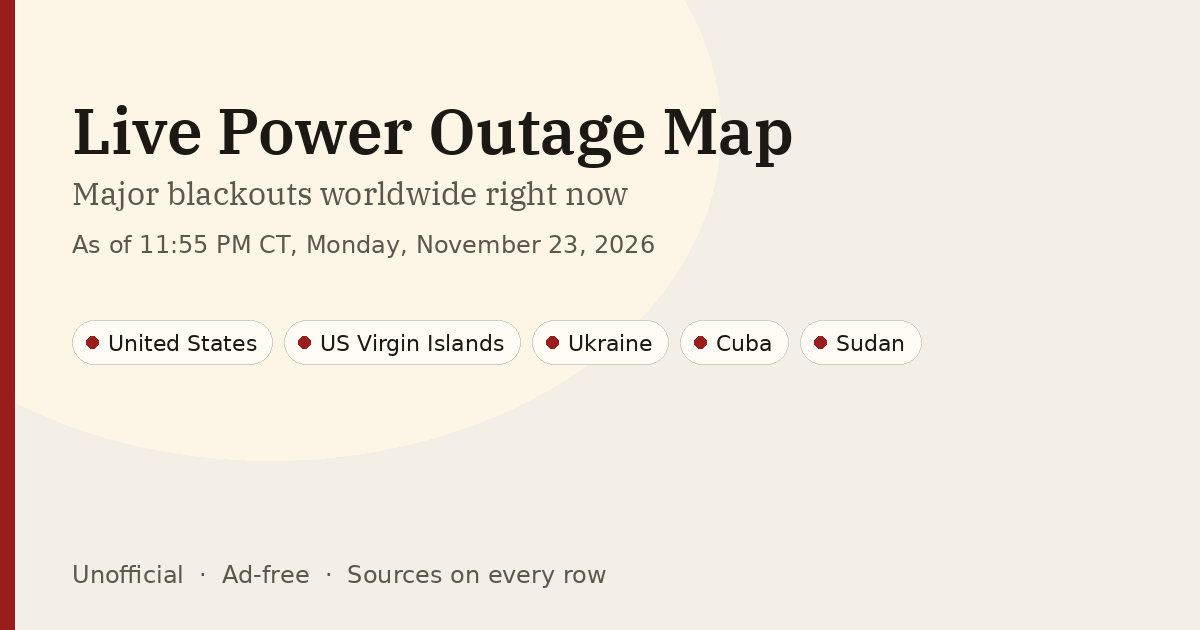
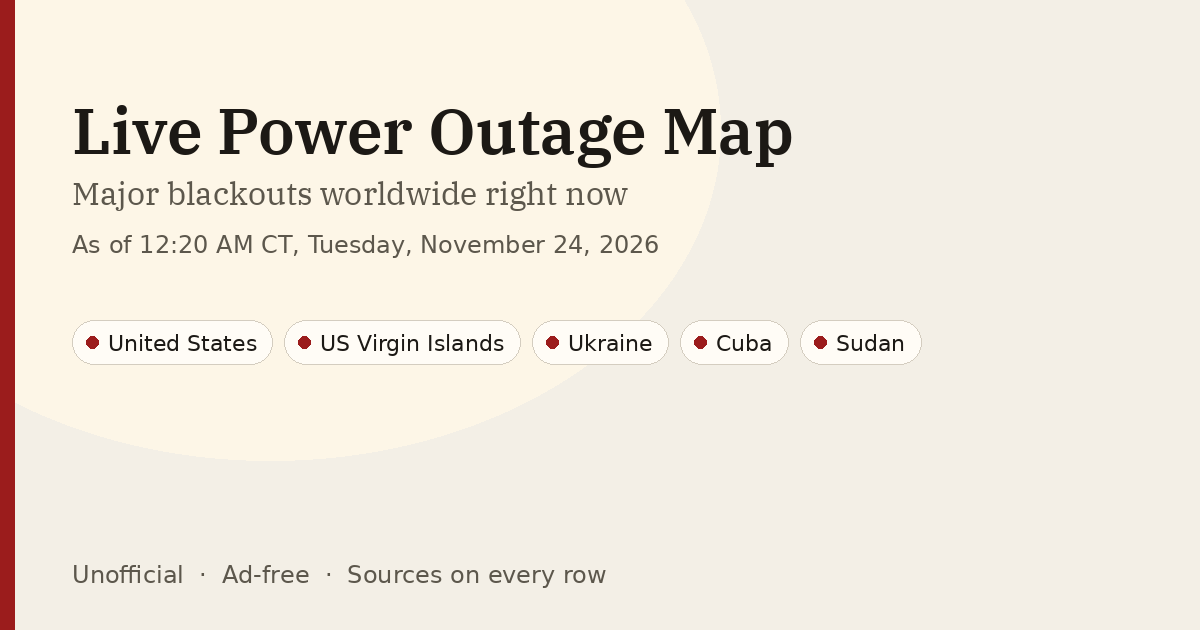
Update US outage data (12:27 AM CT)

Changed region(s): [[0.1233, 0.3619, 0.555, 0.4222]]

diff --git a/index.html b/index.html
@@ -62,7 +62,7 @@
       "about": {
         "@id": "https://blackoutsmap.com/#dataset"
       },
-      "dateModified": "2026-11-23T23:55:00-06:00",
+      "dateModified": "2026-11-24T00:20:00-06:00",
       "primaryImageOfPage": "https://blackoutsmap.com/og-image.png",
       "inLanguage": "en"
     },
@@ -73,8 +73,8 @@
       "description": "A frequently updated list of significant power outages and electricity shortfalls worldwide. Each record gives the place, country or region, cause, customers affected or MW shortfall, start time, estimated restoration time when published, the source URL, and when it was last checked. US figures come from MassOutage (CC BY 4.0), with some state and territory counts from PowerOutage.us; other rows come from utility, grid operator, and news reports linked on each row. US data refreshes about hourly; the worldwide list updates a few times a day.",
       "url": "https://blackoutsmap.com/",
       "isAccessibleForFree": true,
-      "dateModified": "2026-11-23T23:55:00-06:00",
-      "temporalCoverage": "2026-11-23T23:55:00-06:00",
+      "dateModified": "2026-11-24T00:20:00-06:00",
+      "temporalCoverage": "2026-11-24T00:20:00-06:00",
       "spatialCoverage": {
         "@type": "Place",
         "name": "Worldwide"
@@ -197,7 +197,7 @@
     <main>
     <header class="top">
       <h1>Live Power Outage Map</h1>
-      <p class="dateline">As of <strong id="as-of">11:55 PM CT, Monday, November 23, 2026</strong><br>Times in Central Time (CT)</p>
+      <p class="dateline">As of <strong id="as-of">12:20 AM CT, Tuesday, November 24, 2026</strong><br>Times in Central Time (CT)</p>
     </header>
 
     <p class="intro">This free, ad-free map tracks significant power outages and blackouts around the world right now. Each outage shows where it is, how many customers are affected, the cause, and the estimated restoration time when one is published, with a link to the source. It is unofficial: for your own address, check your electric utility's outage map. <a href="#faq">How this map works</a></p>
@@ -208,7 +208,7 @@
 
 
     <div class="metrics" id="metrics">
-      <article class="metric" id="metric-us"><!-- build:metric-us --><div class="label">United States</div><div class="value">52,873</div><div class="detail">52,873 customers out</div><!-- /build:metric-us --></article>
+      <article class="metric" id="metric-us"><!-- build:metric-us --><div class="label">United States</div><div class="value">59,589</div><div class="detail">59,589 customers out</div><!-- /build:metric-us --></article>
     </div>
 
     <nav class="region-nav" id="region-nav" aria-label="Outages by country">
@@ -251,12 +251,12 @@
             </tr>
           </thead>
           <tbody id="outage-body"><!-- build:table -->
-<tr><td class="place-cell"><a class="place-link" href="us/">United States</a></td><td>Nationwide</td><td class="empty">—</td><td>52,873 customers out</td><td class="empty">—</td><td class="empty">—</td><td><a href="https://massoutage.com/" target="_blank" rel="noopener noreferrer">MassOutage + PowerOutage.us</a></td><td>11:00 PM CT</td></tr>
+<tr><td class="place-cell"><a class="place-link" href="us/">United States</a></td><td>Nationwide</td><td class="empty">—</td><td>59,589 customers out</td><td class="empty">—</td><td class="empty">—</td><td><a href="https://massoutage.com/" target="_blank" rel="noopener noreferrer">MassOutage + PowerOutage.us</a></td><td>12:20 AM CT</td></tr>
+<tr><td class="place-cell"><a class="place-link" href="us/">California</a></td><td>United States</td><td class="empty">—</td><td>7,354 customers out</td><td class="empty">—</td><td class="empty">—</td><td><a href="https://massoutage.com/california" target="_blank" rel="noopener noreferrer">MassOutage</a></td><td>12:20 AM CT</td></tr>
 <tr><td class="place-cell"><a class="place-link" href="us-virgin-islands/">U.S. Virgin Islands</a></td><td>United States</td><td class="empty">—</td><td>6,636 customers out</td><td class="empty">—</td><td class="empty">—</td><td><a href="https://poweroutage.us/area/state/virgin%20islands" target="_blank" rel="noopener noreferrer">PowerOutage.us</a></td><td>2:13 PM CT</td></tr>
 <tr><td class="place-cell"><a class="place-link" href="us/">Texas</a></td><td>United States</td><td class="empty">—</td><td>5,927 customers out</td><td class="empty">—</td><td class="empty">—</td><td><a href="https://poweroutage.us/area/state/texas" target="_blank" rel="noopener noreferrer">PowerOutage.us</a></td><td>2:13 PM CT</td></tr>
-<tr><td class="place-cell"><a class="place-link" href="us/">California</a></td><td>United States</td><td class="empty">—</td><td>5,564 customers out</td><td class="empty">—</td><td class="empty">—</td><td><a href="https://poweroutage.us/area/state/california" target="_blank" rel="noopener noreferrer">PowerOutage.us</a></td><td>2:13 PM CT</td></tr>
 <tr><td class="place-cell"><a class="place-link" href="us/">Oregon</a></td><td>United States</td><td class="empty">—</td><td>4,441 customers out</td><td class="empty">—</td><td class="empty">—</td><td><a href="https://poweroutage.us/area/state/oregon" target="_blank" rel="noopener noreferrer">PowerOutage.us</a></td><td>2:13 PM CT</td></tr>
-<tr><td class="place-cell"><a class="place-link" href="us/">Georgia</a></td><td>United States</td><td class="empty">—</td><td>3,326 customers out</td><td class="empty">—</td><td class="empty">—</td><td><a href="https://poweroutage.us/area/state/georgia" target="_blank" rel="noopener noreferrer">PowerOutage.us</a></td><td>2:13 PM CT</td></tr>
+<tr><td class="place-cell"><a class="place-link" href="us/">Pennsylvania</a></td><td>United States</td><td class="empty">—</td><td>4,195 customers out</td><td class="empty">—</td><td class="empty">—</td><td><a href="https://massoutage.com/pennsylvania" target="_blank" rel="noopener noreferrer">MassOutage</a></td><td>12:20 AM CT</td></tr>
 <tr><td class="place-cell"><a class="place-link" href="ukraine/">Kyiv and nationwide</a></td><td>Ukraine</td><td class="clamp-cell"><span class="clamp-preview">Rolling and emergency blackouts after Russian attacks on energy</span><span class="clamp-full" id="clamp-full-1">Rolling and emergency blackouts after Russian attacks on energy infrastructure, including a large-scale attack on Nov 20 and further strikes reported on Nov 21 and into Nov 22 and Nov 23. Ukrenergo said planned outage schedules would be in effect around the clock on Monday, Nov 23, and again on Tuesday, Nov 24, in parts of the country because of those attacks</span><button type="button" class="clamp-toggle" aria-expanded="false" aria-label="Show full text" aria-controls="clamp-full-1">…</button></td><td class="clamp-cell"><span class="clamp-preview">Ukrenergo, as reported by LB.ua at 7:20 p.m. Monday, Nov 23 (11:20 a.m.</span><span class="clamp-full" id="clamp-full-2">Ukrenergo, as reported by LB.ua at 7:20 p.m. Monday, Nov 23 (11:20 a.m. CT if Kyiv time / EET), by UNIAN at 8:59 p.m. Monday, Nov 23 (12:59 p.m. CT if Kyiv time / EET), and by UNN at 5:13 p.m. Monday, Nov 23 (9:13 a.m. CT if Kyiv time / EET), said that on Tuesday, Nov 24, scheduled power-supply restrictions would be in effect around the clock in parts of Ukraine because of the aftermath of Russian attacks on the energy system: hourly outage schedules of 0.5 to 3.5 groups, or queues, for all categories of consumers, and capacity-limitation schedules for industrial consumers. UNIAN, citing Ukrenergo, said those 0.5 to 3.5 queues amounted to about 2 to 14 hours without power, and UNN likewise said one group means four hours without electricity, so Tuesday outages may last from 2 to 14 hours. UNIAN also summarized Tuesday regional schedules, saying that in Sumy and the Sumy region the total duration without power would be from six to 14 hours; that in Lviv and the Lviv region some queues had no outages scheduled and the rest would be switched off once for two to four and a half hours; that in Poltava and the Poltava region customers would be switched off four times a day, except for two half-queues with three and five periods, with each outage lasting from half an hour to three and a half hours; and that Kyiv schedules would be applied individually and should be checked through local operators. LB.ua, in the same Nov 23 report, said that at present the most difficult situation with electricity supply remained in Dnipropetrovsk and Odesa regions. Kyiv Independent, in an article dated 9:19 p.m. Monday, Nov 23 (1:19 p.m. CT if Kyiv time / EET), citing the private energy company DTEK, said Russian attacks on four DTEK energy facilities in Dnipropetrovsk Oblast over Nov 21 and Nov 22 had left about 353,000 households without electricity, that emergency power cuts were in effect in Dnipro and the Dniprovskyi, Samarivskyi, Kamianskyi, and Pavlohradskyi districts, with regular outage schedules suspended there, and that other parts of the region were subject to scheduled cuts ordered by Ukrenergo; DTEK, as quoted in that report, said emergency repair crews had worked through the night and were continuing restoration, prioritizing critical infrastructure, but that damage to main transmission networks meant technicians could not yet reconnect all consumers, and it did not give a timeline for restoring power to all affected households. NV, in an article dated 3:46 p.m. Monday, Nov 23 (7:46 a.m. CT if Kyiv time / EET), and Delo.ua, also citing DTEK, gave the same figure of about 353,000 households and said a significant part of Dnipro, the city of Samar, and adjacent districts had been left without power. Earlier Monday, Kyiv Post, in an article dated 2:18 p.m. Monday, Nov 23 (7:18 a.m. CT if Kyiv time / EET), citing Ukraine&#x27;s Energy Ministry and First Deputy Energy Minister Artem Nekrasov, said Russia had carried out 100 attacks on Ukraine&#x27;s energy, oil, and gas infrastructure over the past week, contributing to 224 recorded damage incidents, and that power outages had continued to affect seven regions on Monday, Nov 23: Dnipropetrovsk, Donetsk, Zhytomyr, Sumy, Kharkiv, Odesa, and Poltava, with the situation remaining particularly difficult in Odesa and Dnipropetrovsk regions. The same Kyiv Post report, citing Nekrasov, said energy workers had restored power to critical infrastructure facilities while repairs and efforts to reconnect households and businesses continued; that grid restrictions had been introduced in Dnipropetrovsk region to prevent further outages caused by overloads; that emergency power cuts remained in place in Kharkiv region because of previous damage and reduced voltage in the high-voltage transmission network, with scheduled outages to resume once the situation stabilized; and that Russian forces had also struck a gas-infrastructure facility in Dnipropetrovsk region in the previous days, injuring three employees. Kyiv Post also said that across most of Ukraine, hourly electricity outage schedules were in place on Nov 23, while industrial consumers faced power restrictions, and, citing Ukraine&#x27;s Air Force data reported by Ukrainian media, that on the night of Nov 23 Russia launched 153 attack drones against Ukraine, including 60 jet-powered Shahed drones, alongside Gerbera drones and Parodiya decoys. An earlier Sunday night Ukrenergo statement, as reported by Censor.NET at 10:24 p.m. EET Sunday, Nov 22 (2:24 p.m. CT), by UNIAN at 11:13 p.m. EET Sunday (3:13 p.m. CT), by Focus, and by 24tv, had said that on Monday, Nov 23, planned electricity outages would be in effect around the clock in parts of the country: hourly outage schedules of 1 to 3.5 groups, or queues, for all categories of consumers, and capacity-restriction schedules for industry. UNIAN, in that Sunday night report, said those 1 to 3.5 queues amounted to approximately 4 to 16 hours a day for household consumers. No official nationwide customer count was found as of 11:55 PM CT Monday, Nov 23 (7:55 a.m. EET Tuesday, Nov 24).</span><button type="button" class="clamp-toggle" aria-expanded="false" aria-label="Show full text" aria-controls="clamp-full-2">…</button></td><td class="empty">—</td><td class="empty">—</td><td><a href="https://en.lb.ua/news/2026/11/23/51172_ukrenergo_power_outage_schedules.html" target="_blank" rel="noopener noreferrer">en.lb.ua</a></td><td class="clamp-cell"><span class="clamp-preview">Nov 23-24, 2026, Ukrenergo Tuesday, Nov 24, schedules of 0.5 to 3.5</span><span class="clamp-full" id="clamp-full-3">Nov 23-24, 2026, Ukrenergo Tuesday, Nov 24, schedules of 0.5 to 3.5 queues around the clock, and industrial capacity limits, via LB.ua 7:20 p.m. Monday, Nov 23 (= 11:20 a.m. CT if Kyiv time / EET), UNIAN 8:59 p.m. Monday (= 12:59 p.m. CT if Kyiv time / EET), and UNN 5:13 p.m. Monday (= 9:13 a.m. CT if Kyiv time / EET), with UNIAN and UNN saying those queues amounted to about 2 to 14 hours, and LB.ua saying the most difficult supply situation remained in Dnipropetrovsk and Odesa regions; earlier Kyiv Independent dated 9:19 p.m. Monday, Nov 23 (= 1:19 p.m. CT if Kyiv time / EET), citing DTEK, on about 353,000 households without power in Dnipropetrovsk Oblast after attacks on four DTEK facilities on Nov 21-22, emergency cuts in Dnipro and four districts, and scheduled cuts elsewhere in the region; NV 3:46 p.m. Monday (= 7:46 a.m. CT if Kyiv time / EET) and Delo.ua, also citing DTEK, on the same 353,000-household figure and on a significant part of Dnipro, Samar, and adjacent districts left without power; earlier Kyiv Post dated 2:18 p.m. Monday, Nov 23 (= 7:18 a.m. CT if Kyiv time / EET), citing the Energy Ministry and First Deputy Energy Minister Artem Nekrasov, on 100 attacks on energy, oil, and gas infrastructure in the past week with 224 damage incidents, outages in seven regions on Monday with Odesa and Dnipropetrovsk among the hardest hit, emergency blackouts remaining in Kharkiv, grid restrictions in Dnipropetrovsk region, and, citing Ukraine&#x27;s Air Force data reported by Ukrainian media, 153 attack drones launched on the night of Nov 23, including 60 jet-powered Shahed drones; earlier Sunday night Ukrenergo schedules of 1 to 3.5 queues via Censor.NET, UNIAN, Focus, and 24tv, with UNIAN saying those queues amounted to approximately 4 to 16 hours a day; rechecked 11:55 PM CT Monday, Nov 23 (7:55 a.m. EET Tuesday, Nov 24), no official nationwide customer count found</span><button type="button" class="clamp-toggle" aria-expanded="false" aria-label="Show full text" aria-controls="clamp-full-3">…</button></td></tr>
 <tr><td class="place-cell"><a class="place-link" href="ukraine/">Odesa and parts of Odesa district</a></td><td>Odesa, Ukraine</td><td class="clamp-cell"><span class="clamp-preview">Repeated Russian attacks on high-voltage transmission networks and</span><span class="clamp-full" id="clamp-full-4">Repeated Russian attacks on high-voltage transmission networks and other energy facilities critical to the region, including a strike on a DTEK Odeski Elektromerezhi energy facility on the morning of Nov 20. Later on Monday, Nov 23, Odesa regional governor Oleh Kiper said scheduled power-outage timetables were being reinstated in place of emergency blackouts after energy workers restored damaged infrastructure, and DTEK Odeski Elektromerezhi said repairs had made a return to stabilization schedules possible, while warning that the energy system remained vulnerable to significant loads</span><button type="button" class="clamp-toggle" aria-expanded="false" aria-label="Show full text" aria-controls="clamp-full-4">…</button></td><td class="clamp-cell"><span class="clamp-preview">Odesa regional governor Oleh Kiper, as reported by LB.ua at 8:03 p.m.</span><span class="clamp-full" id="clamp-full-5">Odesa regional governor Oleh Kiper, as reported by LB.ua at 8:03 p.m. Monday, Nov 23 (12:03 p.m. CT if Kyiv time / EET), said that in Odesa and Odesa District, scheduled power-outage timetables were being reinstated in place of emergency blackouts, that the return to planned schedules had become possible because of continuous work by energy workers restoring damaged infrastructure, and that residents were being urged to use electricity sparingly so as not to overload the power system and cause new emergency outages. DTEK Odeski Elektromerezhi, in a Nov 23 statement on its website, said that thanks to difficult repairs and the restoration of equipment, energy workers had been able to return to stabilization schedules, that the energy system remained vulnerable to significant loads, and that customers should not turn on all electrical appliances at once when power returned, in order to avoid overloading the networks and causing new accidents; the company pointed customers to its website and chatbots for the current schedules. An earlier Monday statement by Kiper, as reported by Censor.NET at 12:35 p.m. EET Monday, Nov 23 (4:35 a.m. CT), by UNN at 10:11 a.m. Kyiv time Monday (2:11 a.m. CT), and by Slovo i Dilo at 12:38 p.m. EET Monday (4:38 a.m. CT), had said the electricity-supply situation in Odesa region remained difficult but that measures were being taken to stabilize it; that emergency outages without schedules were still being applied because the damaged equipment could not yet supply all consumers at once; that all critical infrastructure and some consumers had already been energized; that water was available in all districts, with possible pumping interruptions in some apartment buildings; that 9 of 11 large boiler houses were operating, with 2 more plus the CHP being brought online; that heat had already been supplied to 186,000 subscribers; and that about 79,000 consumers remained temporarily without heating. Ukrenergo, as reported Monday morning by UNN and Slovo i Dilo, had said the situation in Odesa Oblast had been partially stabilized and that electricity supply to critical infrastructure in Odesa had been restored after overnight repair work. No official remaining-electricity-customer count after the earlier Friday DTEK figures was found as of 11:55 PM CT Monday, Nov 23 (7:55 a.m. EET Tuesday, Nov 24).</span><button type="button" class="clamp-toggle" aria-expanded="false" aria-label="Show full text" aria-controls="clamp-full-5">…</button></td><td>Morning of Nov 20, 2026 (Kyiv time)</td><td class="empty">—</td><td><a href="https://en.lb.ua/news/2026/11/23/51184_odesa_district_return_scheduled.html" target="_blank" rel="noopener noreferrer">en.lb.ua</a></td><td class="clamp-cell"><span class="clamp-preview">Nov 23, 2026, Odesa regional governor Oleh Kiper via LB.ua 8:03 p.m.</span><span class="clamp-full" id="clamp-full-6">Nov 23, 2026, Odesa regional governor Oleh Kiper via LB.ua 8:03 p.m. Monday, Nov 23 (= 12:03 p.m. CT if Kyiv time / EET), on scheduled power-outage timetables being reinstated in Odesa and Odesa District in place of emergency blackouts after restoration of damaged infrastructure, with residents urged to use electricity sparingly; DTEK Odeski Elektromerezhi Nov 23 website statement on a return to stabilization schedules, the system remaining vulnerable to significant loads, and a request not to turn on all appliances at once; earlier Monday Kiper statement via Censor.NET 12:35 p.m. EET Monday (= 4:35 a.m. CT), UNN 10:11 a.m. Kyiv time Monday (= 2:11 a.m. CT), and Slovo i Dilo 12:38 p.m. EET Monday (= 4:38 a.m. CT), on a still-difficult supply situation, emergency outages then still being applied, all critical infrastructure and some consumers already energized, water in all districts, 9 of 11 large boiler houses operating, heat already supplied to 186,000 subscribers, and about 79,000 consumers temporarily without heating; Ukrenergo Monday morning statement via UNN and Slovo i Dilo that the Odesa Oblast situation had been partially stabilized and that critical infrastructure in Odesa had been restored; rechecked 11:55 PM CT Monday, Nov 23 (7:55 a.m. EET Tuesday, Nov 24), no official remaining-electricity-customer count after the earlier Friday DTEK figures found</span><button type="button" class="clamp-toggle" aria-expanded="false" aria-label="Show full text" aria-controls="clamp-full-6">…</button></td></tr>
 <tr><td class="place-cell"><a class="place-link" href="ukraine/">Dnipro, Samar, and parts of Dnipropetrovsk region, including Dniprovskyi, Samarivskyi, Kamianske, and Pavlohrad districts</a></td><td>Dnipropetrovsk, Ukraine</td><td class="clamp-cell"><span class="clamp-preview">Russian attacks on four DTEK energy facilities in Dnipropetrovsk Oblast</span><span class="clamp-full" id="clamp-full-7">Russian attacks on four DTEK energy facilities in Dnipropetrovsk Oblast over Nov 21 and Nov 22, according to DTEK, which said most of the facilities had been struck before, that equipment was damaged and fires broke out at several sites, and that damage to main transmission networks meant not all consumers could yet be reconnected. Emergency outages were in effect in Dnipro and in the Dniprovskyi, Samarivskyi, Kamianskyi, and Pavlohradskyi districts, where regular hourly schedules were not being applied</span><button type="button" class="clamp-toggle" aria-expanded="false" aria-label="Show full text" aria-controls="clamp-full-7">…</button></td><td class="clamp-cell"><span class="clamp-preview">DTEK, as reported by Kyiv Independent in an article dated 9:19 p.m.</span><span class="clamp-full" id="clamp-full-8">DTEK, as reported by Kyiv Independent in an article dated 9:19 p.m. Monday, Nov 23 (1:19 p.m. CT if Kyiv time / EET), by NV at 3:46 p.m. Monday, Nov 23 (7:46 a.m. CT if Kyiv time / EET), and by Delo.ua, said Russian attacks on four of its energy facilities in Dnipropetrovsk Oblast over two days, Nov 21 and Nov 22, had left about 353,000 households without electricity. Those reports, citing DTEK, said a significant part of Dnipro, the city of Samar, and adjacent districts had been left without power; that the facilities were hit in Dnipro and surrounding areas, damaging equipment and causing fires at several sites; that most of the facilities had been struck before; and that no energy workers were injured in the recent attacks. DTEK said emergency repair crews had worked through the night and were continuing restoration efforts, prioritizing electricity supplies to critical infrastructure, but that damage to main transmission networks meant technicians could not yet reconnect all consumers, and it did not give a timeline for restoring power to all affected households. Emergency power cuts were in effect in Dnipro and the Dniprovskyi, Samarivskyi, Kamianskyi, and Pavlohradskyi districts, with regular outage schedules suspended there; other parts of the region were subject to scheduled cuts ordered by Ukrenergo. An earlier Monday morning account from Ukrenergo, as reported by UNN at 10:11 a.m. Kyiv time Monday, Nov 23 (2:11 a.m. CT) and by Slovo i Dilo at 12:38 p.m. EET Monday (4:38 a.m. CT), had said the Dnipropetrovsk Oblast situation remained significantly more difficult, with hourly outage schedules in effect and overnight restoration work after significant damage from Russian attacks. Dnipropetrovsk regional council head Mykola Lukashuk, via Vidomo at 10:59 a.m. Monday (2:59 a.m. CT if Kyiv time / EET), had said emergency outages remained in effect in Dnipro and in the Dniprovskyi, Samarivskyi, Kamianske, and Pavlohrad districts, where DTEK hourly schedules were not being applied, with an hourly schedule in effect for Central Energy Company (CEK) customers and a separate schedule for part of Pavlohrad. No later official remaining-customer count after the DTEK figure of about 353,000 households was found as of 11:55 PM CT Monday, Nov 23 (7:55 a.m. EET Tuesday, Nov 24).</span><button type="button" class="clamp-toggle" aria-expanded="false" aria-label="Show full text" aria-controls="clamp-full-8">…</button></td><td class="empty">—</td><td class="empty">—</td><td><a href="https://www.kyivindependent.com/over-350-000-homes-without-power-as-energy-crisis-deepens-in-dnipropetrovsk-oblast/" target="_blank" rel="noopener noreferrer">kyivindependent.com</a></td><td class="clamp-cell"><span class="clamp-preview">Nov 23, 2026, DTEK via Kyiv Independent dated 9:19 p.m. Monday, Nov 23</span><span class="clamp-full" id="clamp-full-9">Nov 23, 2026, DTEK via Kyiv Independent dated 9:19 p.m. Monday, Nov 23 (= 1:19 p.m. CT if Kyiv time / EET), NV 3:46 p.m. Monday (= 7:46 a.m. CT if Kyiv time / EET), and Delo.ua, on about 353,000 households without power after attacks on four DTEK facilities on Nov 21-22, a significant part of Dnipro, Samar, and adjacent districts left without power, emergency cuts in Dnipro and four districts, scheduled cuts elsewhere in the region, overnight repairs prioritizing critical infrastructure, and no timeline for full restoration; earlier Monday morning Ukrenergo update via UNN 10:11 a.m. Kyiv time Monday (= 2:11 a.m. CT) and Slovo i Dilo 12:38 p.m. EET Monday (= 4:38 a.m. CT), saying the Dnipropetrovsk Oblast situation remained significantly more difficult; Dnipropetrovsk regional council head Mykola Lukashuk via Vidomo 10:59 a.m. Monday (= 2:59 a.m. CT if Kyiv time / EET), on emergency outages in Dnipro and four districts; rechecked 11:55 PM CT Monday, Nov 23 (7:55 a.m. EET Tuesday, Nov 24), no later official remaining-customer count after the DTEK figure of about 353,000 households found</span><button type="button" class="clamp-toggle" aria-expanded="false" aria-label="Show full text" aria-controls="clamp-full-9">…</button></td></tr>
@@ -310,11 +310,11 @@
       <h2>Sources</h2>
       <ul id="source-list"><!-- build:sources -->
       <li><a href="https://massoutage.com/" target="_blank" rel="noopener noreferrer">MassOutage + PowerOutage.us</a></li>
+<li><a href="https://massoutage.com/california" target="_blank" rel="noopener noreferrer">MassOutage</a></li>
 <li><a href="https://poweroutage.us/area/state/virgin%20islands" target="_blank" rel="noopener noreferrer">PowerOutage.us</a></li>
 <li><a href="https://poweroutage.us/area/state/texas" target="_blank" rel="noopener noreferrer">PowerOutage.us</a></li>
-<li><a href="https://poweroutage.us/area/state/california" target="_blank" rel="noopener noreferrer">PowerOutage.us</a></li>
 <li><a href="https://poweroutage.us/area/state/oregon" target="_blank" rel="noopener noreferrer">PowerOutage.us</a></li>
-<li><a href="https://poweroutage.us/area/state/georgia" target="_blank" rel="noopener noreferrer">PowerOutage.us</a></li>
+<li><a href="https://massoutage.com/pennsylvania" target="_blank" rel="noopener noreferrer">MassOutage</a></li>
 <li><a href="https://en.lb.ua/news/2026/11/23/51172_ukrenergo_power_outage_schedules.html" target="_blank" rel="noopener noreferrer">en.lb.ua</a></li>
 <li><a href="https://en.lb.ua/news/2026/11/23/51184_odesa_district_return_scheduled.html" target="_blank" rel="noopener noreferrer">en.lb.ua</a></li>
 <li><a href="https://www.kyivindependent.com/over-350-000-homes-without-power-as-energy-crisis-deepens-in-dnipropetrovsk-oblast/" target="_blank" rel="noopener noreferrer">kyivindependent.com</a></li>
@@ -357,11 +357,11 @@
     /* build:region-hrefs */
     const REGION_HREFS = {
       "United States|Nationwide": "us/",
+      "California|United States": "us/",
       "U.S. Virgin Islands|United States": "us-virgin-islands/",
       "Texas|United States": "us/",
-      "California|United States": "us/",
       "Oregon|United States": "us/",
-      "Georgia|United States": "us/",
+      "Pennsylvania|United States": "us/",
       "Kyiv and nationwide|Ukraine": "ukraine/",
       "Odesa and parts of Odesa district|Odesa, Ukraine": "ukraine/",
       "Dnipro, Samar, and parts of Dnipropetrovsk region, including Dniprovskyi, Samarivskyi, Kamianske, and Pavlohrad districts|Dnipropetrovsk, Ukraine": "ukraine/",

diff --git a/us/index.html b/us/index.html
@@ -4,7 +4,7 @@
   <meta charset="utf-8">
   <meta name="viewport" content="width=device-width, initial-scale=1">
   <title>US Power Outage Today | Live Power Outage Map</title>
-  <meta name="description" content="Power outages in the United States right now: customers affected, causes, and restoration times, with sources. United States: 52,873 customers out U.S. Virgin Islands: 6,636 customers out">
+  <meta name="description" content="Power outages in the United States right now: customers affected, causes, and restoration times, with sources. United States: 59,589 customers out California: 7,354 customers out">
   <meta name="robots" content="index,follow,max-image-preview:large,max-snippet:-1">
   <meta name="theme-color" content="#f3efe6">
   <link rel="canonical" href="https://blackoutsmap.com/us/">
@@ -12,7 +12,7 @@
   <link rel="stylesheet" href="../site.css">
   <meta property="og:type" content="website">
   <meta property="og:title" content="US Power Outage Today | Live Power Outage Map">
-  <meta property="og:description" content="Power outages in the United States right now: customers affected, causes, and restoration times, with sources. United States: 52,873 customers out U.S. Virgin Islands: 6,636 customers out">
+  <meta property="og:description" content="Power outages in the United States right now: customers affected, causes, and restoration times, with sources. United States: 59,589 customers out California: 7,354 customers out">
   <meta property="og:url" content="https://blackoutsmap.com/us/">
   <meta property="og:site_name" content="Live Power Outage Map">
   <meta property="og:locale" content="en_US">
@@ -23,7 +23,7 @@
   <meta property="og:image:alt" content="Live Power Outage Map: major blackouts worldwide right now">
   <meta name="twitter:card" content="summary_large_image">
   <meta name="twitter:title" content="US Power Outage Today | Live Power Outage Map">
-  <meta name="twitter:description" content="Power outages in the United States right now: customers affected, causes, and restoration times, with sources. United States: 52,873 customers out U.S. Virgin Islands: 6,636 customers out">
+  <meta name="twitter:description" content="Power outages in the United States right now: customers affected, causes, and restoration times, with sources. United States: 59,589 customers out California: 7,354 customers out">
   <meta name="twitter:image" content="https://blackoutsmap.com/og-image.png">
   <meta name="twitter:image:alt" content="Live Power Outage Map: major blackouts worldwide right now">
 
@@ -36,14 +36,14 @@
       "@id": "https://blackoutsmap.com/us/#webpage",
       "name": "US Power Outage Today",
       "url": "https://blackoutsmap.com/us/",
-      "description": "Power outages in the United States right now: customers affected, causes, and restoration times, with sources. United States: 52,873 customers out U.S. Virgin Islands: 6,636 customers out",
+      "description": "Power outages in the United States right now: customers affected, causes, and restoration times, with sources. United States: 59,589 customers out California: 7,354 customers out",
       "isPartOf": {
         "@type": "WebSite",
         "@id": "https://blackoutsmap.com/#website",
         "name": "Live Power Outage Map",
         "url": "https://blackoutsmap.com/"
       },
-      "dateModified": "2026-11-23T23:55:00-06:00",
+      "dateModified": "2026-11-24T00:20:00-06:00",
       "inLanguage": "en",
       "breadcrumb": {
         "@id": "https://blackoutsmap.com/us/#breadcrumb"
@@ -86,7 +86,7 @@
     <nav class="breadcrumb back-link" aria-label="Breadcrumb"><a href="../">← Live worldwide power outage map</a> <span aria-hidden="true">/</span> <span aria-current="page">US Power Outage Today</span></nav>
     <header class="top">
       <h1>US Power Outage Today</h1>
-      <p class="dateline">As of <strong>11:55 PM CT, Monday, November 23, 2026</strong><br>Times in Central Time (CT)</p>
+      <p class="dateline">As of <strong>12:20 AM CT, Tuesday, November 24, 2026</strong><br>Times in Central Time (CT)</p>
     </header>
     <p class="region-lede">Unofficial snapshot of significant power outages in the United States. Figures come from public utility and news reports and are not invented. Confirm any outage with the local utility. For the latest worldwide list, see the <a href="../">live power outage map</a>.</p>
     <section class="panel" aria-labelledby="table-heading">
@@ -106,12 +106,12 @@
             </tr>
           </thead>
           <tbody>
-<tr><td class="place-cell"><a class="place-link" href="../us/">United States</a></td><td>Nationwide</td><td class="empty">—</td><td>52,873 customers out</td><td class="empty">—</td><td class="empty">—</td><td><a href="https://massoutage.com/" target="_blank" rel="noopener noreferrer">MassOutage + PowerOutage.us</a></td><td>11:00 PM CT</td></tr>
+<tr><td class="place-cell"><a class="place-link" href="../us/">United States</a></td><td>Nationwide</td><td class="empty">—</td><td>59,589 customers out</td><td class="empty">—</td><td class="empty">—</td><td><a href="https://massoutage.com/" target="_blank" rel="noopener noreferrer">MassOutage + PowerOutage.us</a></td><td>12:20 AM CT</td></tr>
+<tr><td class="place-cell"><a class="place-link" href="../us/">California</a></td><td>United States</td><td class="empty">—</td><td>7,354 customers out</td><td class="empty">—</td><td class="empty">—</td><td><a href="https://massoutage.com/california" target="_blank" rel="noopener noreferrer">MassOutage</a></td><td>12:20 AM CT</td></tr>
 <tr><td class="place-cell"><a class="place-link" href="../us-virgin-islands/">U.S. Virgin Islands</a></td><td>United States</td><td class="empty">—</td><td>6,636 customers out</td><td class="empty">—</td><td class="empty">—</td><td><a href="https://poweroutage.us/area/state/virgin%20islands" target="_blank" rel="noopener noreferrer">PowerOutage.us</a></td><td>2:13 PM CT</td></tr>
 <tr><td class="place-cell"><a class="place-link" href="../us/">Texas</a></td><td>United States</td><td class="empty">—</td><td>5,927 customers out</td><td class="empty">—</td><td class="empty">—</td><td><a href="https://poweroutage.us/area/state/texas" target="_blank" rel="noopener noreferrer">PowerOutage.us</a></td><td>2:13 PM CT</td></tr>
-<tr><td class="place-cell"><a class="place-link" href="../us/">California</a></td><td>United States</td><td class="empty">—</td><td>5,564 customers out</td><td class="empty">—</td><td class="empty">—</td><td><a href="https://poweroutage.us/area/state/california" target="_blank" rel="noopener noreferrer">PowerOutage.us</a></td><td>2:13 PM CT</td></tr>
 <tr><td class="place-cell"><a class="place-link" href="../us/">Oregon</a></td><td>United States</td><td class="empty">—</td><td>4,441 customers out</td><td class="empty">—</td><td class="empty">—</td><td><a href="https://poweroutage.us/area/state/oregon" target="_blank" rel="noopener noreferrer">PowerOutage.us</a></td><td>2:13 PM CT</td></tr>
-<tr><td class="place-cell"><a class="place-link" href="../us/">Georgia</a></td><td>United States</td><td class="empty">—</td><td>3,326 customers out</td><td class="empty">—</td><td class="empty">—</td><td><a href="https://poweroutage.us/area/state/georgia" target="_blank" rel="noopener noreferrer">PowerOutage.us</a></td><td>2:13 PM CT</td></tr>
+<tr><td class="place-cell"><a class="place-link" href="../us/">Pennsylvania</a></td><td>United States</td><td class="empty">—</td><td>4,195 customers out</td><td class="empty">—</td><td class="empty">—</td><td><a href="https://massoutage.com/pennsylvania" target="_blank" rel="noopener noreferrer">MassOutage</a></td><td>12:20 AM CT</td></tr>
           </tbody>
         </table>
       </div>
@@ -131,11 +131,11 @@
       <h2>Sources</h2>
       <ul>
 <li><a href="https://massoutage.com/" target="_blank" rel="noopener noreferrer">MassOutage + PowerOutage.us</a></li>
+<li><a href="https://massoutage.com/california" target="_blank" rel="noopener noreferrer">MassOutage</a></li>
 <li><a href="https://poweroutage.us/area/state/virgin%20islands" target="_blank" rel="noopener noreferrer">PowerOutage.us</a></li>
 <li><a href="https://poweroutage.us/area/state/texas" target="_blank" rel="noopener noreferrer">PowerOutage.us</a></li>
-<li><a href="https://poweroutage.us/area/state/california" target="_blank" rel="noopener noreferrer">PowerOutage.us</a></li>
 <li><a href="https://poweroutage.us/area/state/oregon" target="_blank" rel="noopener noreferrer">PowerOutage.us</a></li>
-<li><a href="https://poweroutage.us/area/state/georgia" target="_blank" rel="noopener noreferrer">PowerOutage.us</a></li>
+<li><a href="https://massoutage.com/pennsylvania" target="_blank" rel="noopener noreferrer">MassOutage</a></li>
       </ul>
       <p>This is an unofficial snapshot compiled from public utility and news reports. It is not an official government or utility outage map. Confirm outages with the local utility. US outage figures are from <a href="https://massoutage.com/" target="_blank" rel="noopener noreferrer">MassOutage</a>, licensed <a href="https://creativecommons.org/licenses/by/4.0/" target="_blank" rel="noopener noreferrer">CC BY 4.0</a>; some state and territory counts also use PowerOutage.us.</p>
     </footer>

diff --git a/us-virgin-islands/index.html b/us-virgin-islands/index.html
@@ -43,7 +43,7 @@
         "name": "Live Power Outage Map",
         "url": "https://blackoutsmap.com/"
       },
-      "dateModified": "2026-11-23T23:55:00-06:00",
+      "dateModified": "2026-11-24T00:20:00-06:00",
       "inLanguage": "en",
       "breadcrumb": {
         "@id": "https://blackoutsmap.com/us-virgin-islands/#breadcrumb"
@@ -86,7 +86,7 @@
     <nav class="breadcrumb back-link" aria-label="Breadcrumb"><a href="../">← Live worldwide power outage map</a> <span aria-hidden="true">/</span> <span aria-current="page">US Virgin Islands Power Outage Today</span></nav>
     <header class="top">
       <h1>US Virgin Islands Power Outage Today</h1>
-      <p class="dateline">As of <strong>11:55 PM CT, Monday, November 23, 2026</strong><br>Times in Central Time (CT)</p>
+      <p class="dateline">As of <strong>12:20 AM CT, Tuesday, November 24, 2026</strong><br>Times in Central Time (CT)</p>
     </header>
     <p class="region-lede">Unofficial snapshot of significant power outages in the U.S. Virgin Islands. Figures come from public utility and news reports and are not invented. Confirm any outage with the local utility. For the latest worldwide list, see the <a href="../">live power outage map</a>.</p>
     <section class="panel" aria-labelledby="table-heading">

diff --git a/ukraine/index.html b/ukraine/index.html
@@ -43,7 +43,7 @@
         "name": "Live Power Outage Map",
         "url": "https://blackoutsmap.com/"
       },
-      "dateModified": "2026-11-23T23:55:00-06:00",
+      "dateModified": "2026-11-24T00:20:00-06:00",
       "inLanguage": "en",
       "breadcrumb": {
         "@id": "https://blackoutsmap.com/ukraine/#breadcrumb"
@@ -86,7 +86,7 @@
     <nav class="breadcrumb back-link" aria-label="Breadcrumb"><a href="../">← Live worldwide power outage map</a> <span aria-hidden="true">/</span> <span aria-current="page">Ukraine Power Outage Today</span></nav>
     <header class="top">
       <h1>Ukraine Power Outage Today</h1>
-      <p class="dateline">As of <strong>11:55 PM CT, Monday, November 23, 2026</strong><br>Times in Central Time (CT)</p>
+      <p class="dateline">As of <strong>12:20 AM CT, Tuesday, November 24, 2026</strong><br>Times in Central Time (CT)</p>
     </header>
     <p class="region-lede">Unofficial snapshot of significant power outages in Ukraine. Figures come from public utility and news reports and are not invented. Confirm any outage with the local utility. For the latest worldwide list, see the <a href="../">live power outage map</a>.</p>
     <section class="panel" aria-labelledby="table-heading">

diff --git a/sudan/index.html b/sudan/index.html
@@ -43,7 +43,7 @@
         "name": "Live Power Outage Map",
         "url": "https://blackoutsmap.com/"
       },
-      "dateModified": "2026-11-23T23:55:00-06:00",
+      "dateModified": "2026-11-24T00:20:00-06:00",
       "inLanguage": "en",
       "breadcrumb": {
         "@id": "https://blackoutsmap.com/sudan/#breadcrumb"
@@ -86,7 +86,7 @@
     <nav class="breadcrumb back-link" aria-label="Breadcrumb"><a href="../">← Live worldwide power outage map</a> <span aria-hidden="true">/</span> <span aria-current="page">Sudan Power Outage Today</span></nav>
     <header class="top">
       <h1>Sudan Power Outage Today</h1>
-      <p class="dateline">As of <strong>11:55 PM CT, Monday, November 23, 2026</strong><br>Times in Central Time (CT)</p>
+      <p class="dateline">As of <strong>12:20 AM CT, Tuesday, November 24, 2026</strong><br>Times in Central Time (CT)</p>
     </header>
     <p class="region-lede">Unofficial snapshot of significant power outages in Sudan. Figures come from public utility and news reports and are not invented. Confirm any outage with the local utility. For the latest worldwide list, see the <a href="../">live power outage map</a>.</p>
     <section class="panel" aria-labelledby="table-heading">

diff --git a/cuba/index.html b/cuba/index.html
@@ -43,7 +43,7 @@
         "name": "Live Power Outage Map",
         "url": "https://blackoutsmap.com/"
       },
-      "dateModified": "2026-11-23T23:55:00-06:00",
+      "dateModified": "2026-11-24T00:20:00-06:00",
       "inLanguage": "en",
       "breadcrumb": {
         "@id": "https://blackoutsmap.com/cuba/#breadcrumb"
@@ -86,7 +86,7 @@
     <nav class="breadcrumb back-link" aria-label="Breadcrumb"><a href="../">← Live worldwide power outage map</a> <span aria-hidden="true">/</span> <span aria-current="page">Cuba Power Outage Today</span></nav>
     <header class="top">
       <h1>Cuba Power Outage Today</h1>
-      <p class="dateline">As of <strong>11:55 PM CT, Monday, November 23, 2026</strong><br>Times in Central Time (CT)</p>
+      <p class="dateline">As of <strong>12:20 AM CT, Tuesday, November 24, 2026</strong><br>Times in Central Time (CT)</p>
     </header>
     <p class="region-lede">Unofficial snapshot of significant power outages in Cuba. Figures come from public utility and news reports and are not invented. Confirm any outage with the local utility. For the latest worldwide list, see the <a href="../">live power outage map</a>.</p>
     <section class="panel" aria-labelledby="table-heading">
